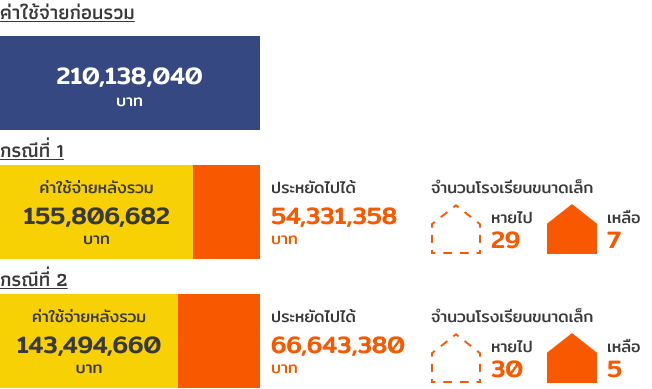
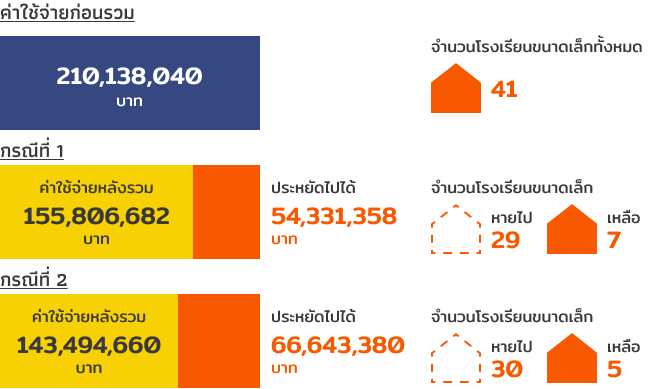
change images

Changed region(s): [[0.6442, 0.0925, 0.9816, 0.3085]]

diff --git a/smallSchool/index.html b/smallSchool/index.html
@@ -351,13 +351,8 @@ button {
             <br>
             <div class="container">
                 <div class="row">
-                    <div class="col-md-5">
-                        <img src="./images/Radius.svg">
+                        <img src="./images/combine.png" style="max-width: 95%">
                     </div>
-                    <div class="col-md-5">
-                        <img src="./images/SmallSchool.png">
-                    </div>
-                </div>
             </div>
         </div>   
     </section>
